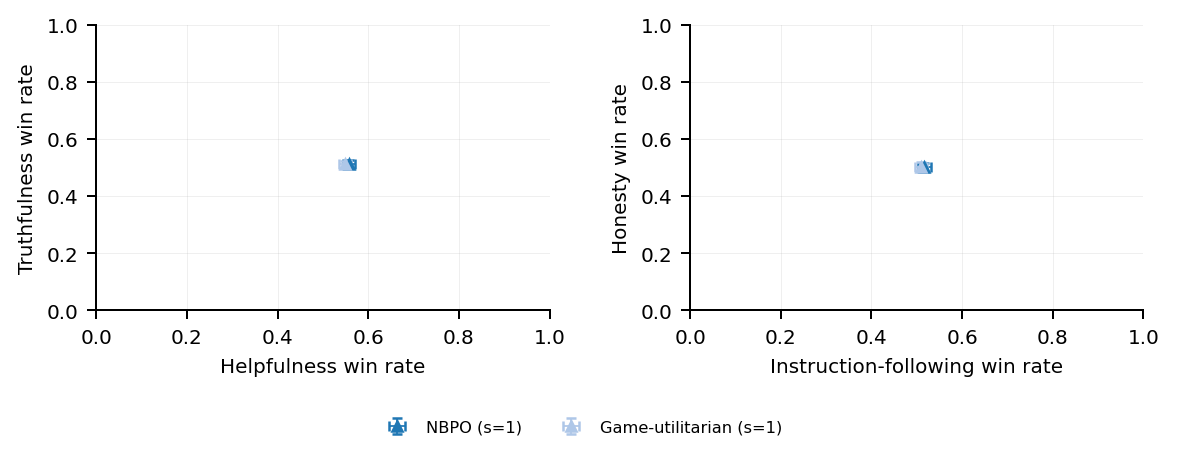
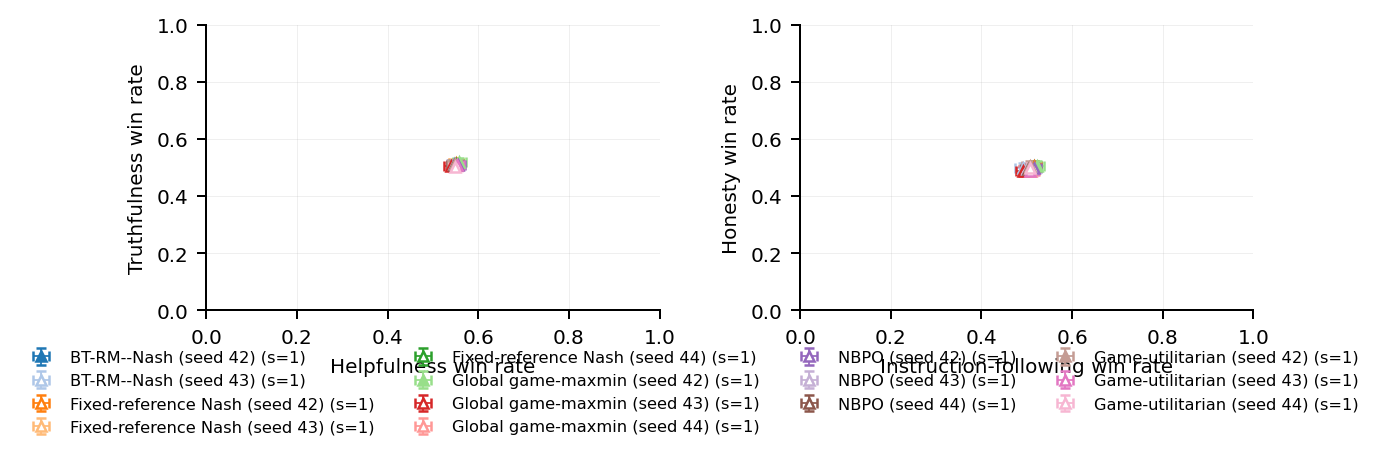
The trade-off figure was plotting retracted numbers; fill it from live data
figures/uf_tradeoffs.pdf still showed the pre-repair single-seed NBPO and
game-utilitarian points on the 1967 and 1960 denominators -- numbers the
appendix explicitly supersedes -- while its caption said the sweep and the
uncertainty estimates were pending. A figure quietly plotting retracted values
is the same defect the cross-play exhibits were retracted for, and its CSV was
hand-maintained, so it would have drifted again at the next arm.

progress/fill_tradeoffs.py now regenerates the CSV from the same common-set
aggregator that fills Table 1: fourteen points, one per evaluated policy seed
across the five measured mechanisms, on the current 1,466 common prompts with
each seed's own whole-prompt paired interval.

Seeds rather than family means, deliberately: a family mean has no defined
prompt-bootstrap interval in this campaign, which keeps prompt uncertainty and
seed spread separate and never pools them, and the scatter within a method is
the panel's main finding rather than noise to average away.

Two errors caught before the figure was published. The aggregator's estimate key
is win_rate, and my fallback quietly used the interval midpoint when it found no
"mean" -- 0.5162 against the actual 0.5159 for BT-RM seed 42 instruction
following; it now raises instead. And judgments_sha256 is a per-arm mapping, so
stringifying it put a truncated dict repr in the provenance column; it is now a
digest of the whole mapping.

49 pages, 0 errors.
[…]

diff --git a/nbpo_iclr/progress/fill_tradeoffs.py b/nbpo_iclr/progress/fill_tradeoffs.py
@@ -1,0 +1,105 @@
+"""Regenerate data/uf_tradeoffs.csv from the live common-set aggregator.
+
+Two reasons this had to change. The file still carried the pre-repair
+single-seed points on the superseded 1967/1960 denominators -- numbers the
+appendix explicitly supersedes -- so the figure was plotting retracted values
+while its caption said the sweep was pending. And it was hand-maintained, so it
+would have drifted again at the next arm.
+
+One row per evaluated policy seed rather than per method. A family mean has no
+defined prompt-bootstrap interval (the campaign keeps prompt uncertainty and
+seed spread separate and never pools them), while a seed-level point has its own
+interval and the scatter across a method's seeds is itself the panel's main
+finding. Dominance marks stay descriptive over the plotted rows, as the plotter's
+own docstring requires.
+"""
+from __future__ import annotations
+
+import csv
+import json
+import subprocess
+import sys
+from pathlib import Path
+
+ROOT = Path(__file__).resolve().parents[1]
+POD = ("kubectl exec -n p-aipr nbpo-judge -c main -- bash -lc "
+       "'cat /work/uf4_20260910/analysis/final_eval_common_auto.json'")
+CRITERIA = (("if", "instruction_following"), ("truth", "truthfulness"),
+            ("honesty", "honesty"), ("help", "helpfulness"))
+LABEL = {"nbpo_mse": "NBPO", "fixedref_mse": "Fixed-reference Nash",
+         "btrm_mse": "BT-RM--Nash", "util_mse": "Game-utilitarian",
+         "maxmin_mse": "Global game-maxmin"}
+PLANNED = [("dpo", "Scalarized DPO"), ("prosper", "PROSPER (adapt.)"), ("mopo", "MOPO (adapt.)")]
+HEADER = (["method_id", "method_label", "dataset", "test_hash", "protocol_id", "judge_id",
+           "n_prompts", "n_seeds", "seed_ids", "status", "uncertainty_type"]
+          + [f"{k}_{s}" for k, _ in CRITERIA for s in ("mean", "ci_low", "ci_high")])
+PROTOCOL = "order-averaged win rate vs the fixed base response, ties 0.5"
+JUDGE = "local Qwen3-14B rev 40c06982"
+UNCERTAINTY = ("2000 whole-prompt paired bootstrap; prompt variability only, "
+               "never pooled with seed spread")
+
+
+def main():
+    raw = subprocess.run(POD, shell=True, capture_output=True, text=True).stdout
+    if not raw.strip():
+        print(json.dumps({"status": "aggregator unreachable; csv left alone"}), file=sys.stderr)
+        return 1
+    report = json.loads(raw)
+    results, n_common = report["results"], report["common_prompts"]
+    # judgments_sha256 is a per-arm mapping, not a string; stringifying it put a
+    # truncated dict repr into the provenance column. Digest the mapping so the
+    # column identifies this exact set of judgments in one value.
+    import hashlib
+    test_hash = hashlib.sha256(
+        json.dumps(report["judgments_sha256"], sort_keys=True).encode()).hexdigest()[:16]
+
+    rows = [{"method_id": "base", "method_label": "Base", "dataset": "UF-4",
+             "test_hash": test_hash,
+             "protocol_id": ("reference point for every axis: win rates are measured against "
+                             "this policy's cached responses, so it sits at 0.5 by definition "
+                             "and is not judged against itself"),
+             "judge_id": JUDGE, "n_prompts": n_common, "n_seeds": 1, "seed_ids": "n/a",
+             "status": "reference_not_plotted", "uncertainty_type": ""}]
+    for arm in sorted(results):
+        family, _, seed = arm.rpartition("_s")
+        if family not in LABEL:
+            continue
+        row = {"method_id": arm, "method_label": "%s (seed %s)" % (LABEL[family], seed),
+               "dataset": "UF-4", "test_hash": test_hash, "protocol_id": PROTOCOL,
+               "judge_id": JUDGE, "n_prompts": n_common, "n_seeds": 1, "seed_ids": seed,
+               "status": "reported", "uncertainty_type": UNCERTAINTY}
+        for short, long in CRITERIA:
+            entry = results[arm][long]
+            lo, hi = entry["ci95"]
+            # The estimate is `win_rate`. An earlier version fell back to the
+            # interval midpoint when it could not find a `mean` key, which is
+            # not the estimate: for BT-RM seed 42 instruction following it gave
+            # 0.5162 against the actual 0.5159. Fail loudly instead.
+            if "win_rate" not in entry:
+                raise KeyError("%s/%s has no win_rate; keys are %s"
+                               % (arm, long, sorted(entry)))
+            row[short + "_mean"] = "%.4f" % float(entry["win_rate"])
+            row[short + "_ci_low"] = "%.4f" % lo
+            row[short + "_ci_high"] = "%.4f" % hi
+        rows.append(row)
+    for mid, label in PLANNED:
+        rows.append({"method_id": mid, "method_label": label, "dataset": "UF-4",
+                     "status": "planned"})
+
+    out = ROOT / "data/uf_tradeoffs.csv"
+    tmp = out.with_suffix(".csv.tmp")
+    with tmp.open("w", newline="") as stream:
+        writer = csv.DictWriter(stream, fieldnames=HEADER, extrasaction="ignore")
+        writer.writeheader()
+        for row in rows:
+            writer.writerow({k: row.get(k, "") for k in HEADER})
+    tmp.replace(out)
+    plotted = sum(1 for r in rows if r.get("status") == "reported")
+    print(json.dumps({"csv": str(out), "plotted_seed_points": plotted,
+                      "n_common_prompts": n_common, "test_hash": test_hash,
+                      "planned_rows": len(PLANNED)}))
+    return 0
+
+
+if __name__ == "__main__":
+    sys.exit(main())

diff --git a/nbpo_iclr/main_v6.tex b/nbpo_iclr/main_v6.tex
@@ -95,11 +95,11 @@
 % BEGIN AUTO EXPERIMENT STATUS
 \ifshowreviews
 \begin{center}\small\fbox{\parbox{0.95\linewidth}{%
-\textbf{Draft status, auto-updated 2026-09-13 00:41 KST.} Not part of the reported results.
+\textbf{Draft status, auto-updated 2026-09-13 01:11 KST.} Not part of the reported results.
 \\[2pt]
 Main-body objective rows 6/9; cross-play 6/6; DPO weights 0/7; capability cells 35/63; lm-eval cells 45.
 \\[2pt]
-GPU0: uf4\_train\_btrm\_mse\_s44, 100\%, 96401/143771 MiB | GPU1: uf4\_train\_btrm\_mse\_s44, 97\%, 98085/143771 MiB | GPU2: uf4\_train\_btrm\_mse\_s44, 100\%, 95161/143771 MiB | GPU3: uf4\_train\_btrm\_mse\_s44, 99\%, 96271/143771 MiB
+GPU0: uf4\_train\_btrm\_mse\_s44, 98\%, 96401/143771 MiB | GPU1: uf4\_train\_btrm\_mse\_s44, 100\%, 98085/143771 MiB | GPU2: uf4\_train\_btrm\_mse\_s44, 97\%, 95161/143771 MiB | GPU3: uf4\_train\_btrm\_mse\_s44, 95\%, 96271/143771 MiB
 \\[2pt]
 Queue: BLOCKED 1 (1 superseded), DONE 315, FAILED 6 (6 superseded), PENDING 75, READY 29, RUNNING 1. PDF rebuilt each cycle.
 }}\end{center}
@@ -638,7 +638,7 @@ Figure~\ref{fig:uf-tradeoffs} provides two projections for comparing policies wi
 \begin{figure}[t]
 \centering
 \includegraphics[width=0.92\textwidth]{figures/uf_tradeoffs.pdf}
-\caption{Empirical trade-off template: helpfulness versus truthfulness (left), and instruction following versus honesty (right). The declared scalarization sweep and uncertainty estimates remain pending.}
+\caption{Empirical four-objective trade-offs: helpfulness versus truthfulness (left), and instruction following versus honesty (right). One point per evaluated \emph{policy seed} rather than per method -- fourteen across \NBPO{}, fixed-reference Nash, BT-RM--Nash, game-utilitarian and global game-maxmin -- on the $\tabonecommon$ common prompts, with each seed's own whole-prompt paired bootstrap interval. Seeds are plotted separately because a family mean has no defined prompt-bootstrap interval here: prompt uncertainty and seed spread are kept separate throughout and never pooled, and the scatter within a method is itself the panel's main finding. Filled markers indicate descriptive dominance of point estimates over all \emph{four} objectives among the plotted rows only; they do not imply significant dominance or population Pareto optimality. The base is the reference for every axis and sits at $0.5$ by construction, so it is not plotted. The declared scalarization sweep and the PROSPER and MOPO points remain pending.}
 \label{fig:uf-tradeoffs}
 \end{figure}
 
